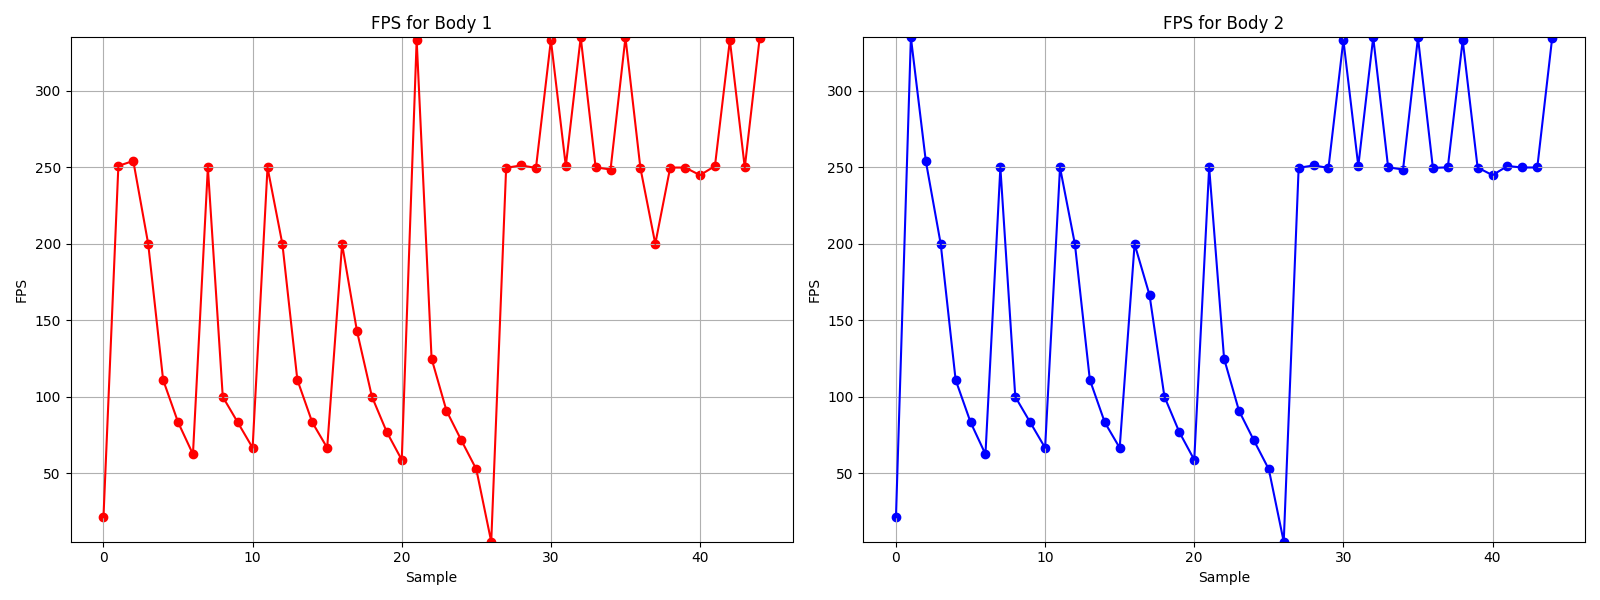
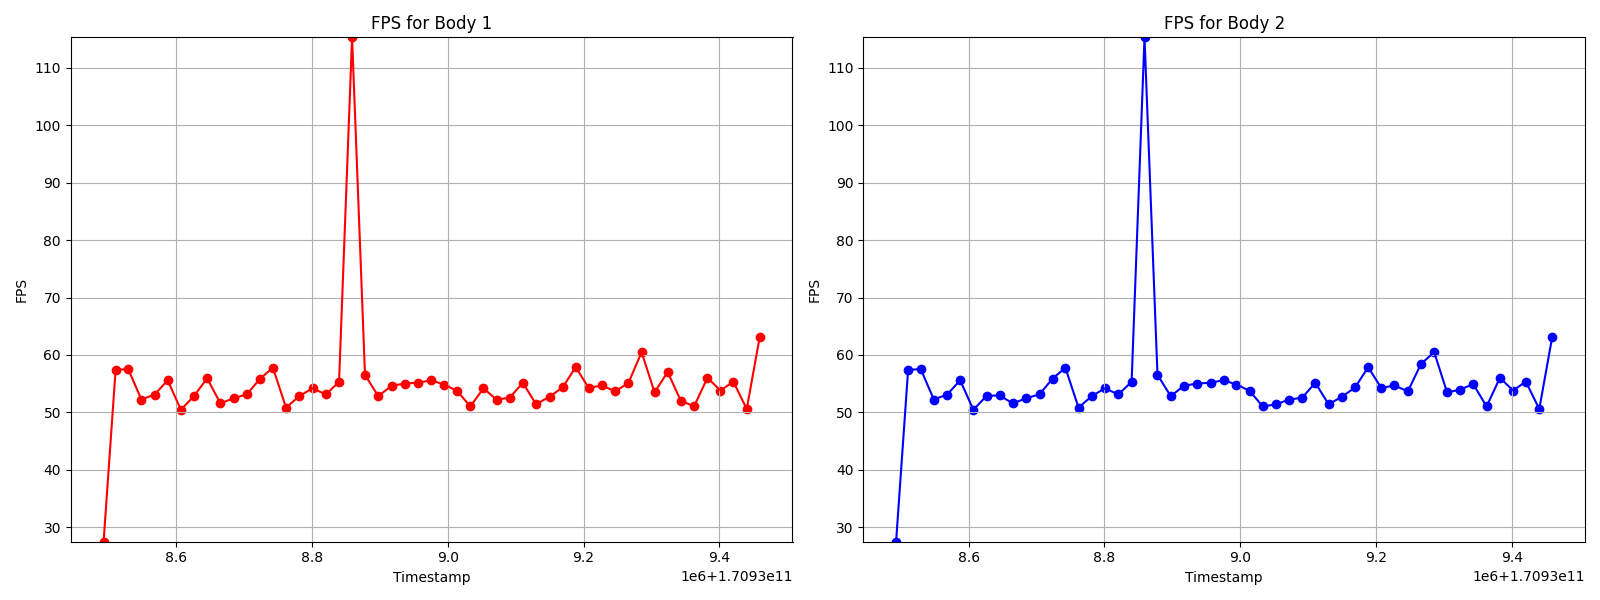
snapshotting some though process

diff --git a/acquire_images/body_cam.py b/acquire_images/body_cam.py
@@ -1,14 +1,28 @@
+from concurrent.futures import ThreadPoolExecutor
+import asyncio
 from rotpy.camera import CameraList
 import cv2
 import numpy as np
 import time
 import os
 import pickle
+import csv
 from rotpy.system import SpinSystem
 from rotpy.camera import CameraList
 
 system = SpinSystem()
 cameras = CameraList.create_from_system(system, update_cams=True, update_interfaces=True)
+
+# # Initialize ThreadPoolExecutor
+# executor = ThreadPoolExecutor()
+
+# async def save_to_disk_async(data, file_path):
+#     loop = asyncio.get_running_loop()
+#     await loop.run_in_executor(executor, pickle.dump, data, open(file_path, 'wb'))
+
+# async def save_csv_async(timestamp, fps, file_path):
+#     loop = asyncio.get_running_loop()
+#     await loop.run_in_executor(executor, csv.writer(open(file_path, 'a', newline='')).writerow, [timestamp, fps])
 
 def acquire_images_common(cam_index, date_folder, curr_trial, frame_rate, barrier, cam_folder, duration):
     print(f"Starting body camera {cam_index+1}")
@@ -19,16 +33,16 @@ def acquire_images_common(cam_index, date_folder, curr_trial, frame_rate, barrie
     # TODO ^ probably can be hardcoded
     print(resolution)
     resolution = (1200, 1920)
-    
+    resolution = (600, 960)
     
     camera.begin_acquisition()
-
     start_time = time.time()
-
-    # TODO need to remove all the samples parts
-    if os.path.isfile(f'samples_body_{cam_index+1}.txt'):
-        os.remove(f'samples_body_{cam_index+1}.txt')
     
+    # TODO need to remove all the samples parts
+    print(f'samples_body_{cam_index+1}.csv')
+    if os.path.isfile(f'samples_body_{cam_index+1}.csv'):
+        os.remove(f'samples_body_{cam_index+1}.csv')
+        
     while time.time() - start_time < duration:
         # barrier.wait()
         fps_start = time.time()
@@ -36,24 +50,28 @@ def acquire_images_common(cam_index, date_folder, curr_trial, frame_rate, barrie
         image = camera.get_next_image()
         raw_data = image.get_image_data()
 
-        try:
-            with open(f"{date_folder}/{cam_folder}/raw/{curr_trial}/frame_{image_count}_{cam_index+1}.pkl", "wb") as f:
-                pickle.dump(raw_data, f)
-        except Exception:
-            break # TODO need better handling here
+        # try:
+        #     # await save_to_disk_async(raw_data, f"{date_folder}/{cam_folder}/raw/{curr_trial}/frame_{image_count}_{cam_index+1}.pkl")
+        #     with open(f"{date_folder}/{cam_folder}/raw/{curr_trial}/frame_{image_count}_{cam_index+1}.pkl", "wb") as f:
+        #         pickle.dump(raw_data, f)
+        # except Exception:
+        #     break # TODO need better handling here
 
         image.release()
-
+        
         fps_end = time.time()
+        timestamp = int(time.perf_counter() * 1e6)
         fps = 1 / (fps_end - fps_start)
-        with open(f'samples_body_{cam_index+1}.txt', 'a') as f: # TODO check if this is adding to the delay?
-            f.write(f"{fps}\n")
 
-        if cv2.waitKey(1) & 0xFF == 27:
-            break
+        # await save_csv_async(timestamp, fps, f'samples_body_{cam_index+1}.csv')
 
+        with open(f'samples_body_{cam_index+1}.csv', 'a', newline='') as f: # TODO check if this is adding to the delay?
+            writer = csv.writer(f)
+            writer.writerow([timestamp, fps])
+        
+        # if cv2.waitKey(1) & 0xFF == 27:
+        #     break
+    
     camera.end_acquisition()
     camera.deinit_cam()
     camera.release()
-
-

diff --git a/acquire_images/main.py b/acquire_images/main.py
@@ -7,6 +7,27 @@ import argparse
 from common_utils import init_structure, get_folder_count, convert_pickle_to_png
 from body_cam import acquire_images_common
 from dart_cam import acquire_dart_images
+import asyncio
+import cProfile
+
+
+# def wrapper_acquire_images_common(*args, **kwargs):
+#     asyncio.run(acquire_images_common(*args, **kwargs))
+
+def wrapper_acquire_images_common(*args, **kwargs):
+    pr = cProfile.Profile()
+    pr.enable()
+    acquire_images_common(*args, **kwargs)
+    pr.disable()
+    pr.print_stats(sort='cumulative')
+
+def wrapper_acquire_dart_images(*args, **kwargs):
+    pr = cProfile.Profile()
+    pr.enable()
+    acquire_dart_images(*args, **kwargs)
+    pr.disable()
+    pr.print_stats(sort='cumulative')
+
 
 if __name__ == "__main__":
 
@@ -27,25 +48,25 @@ if __name__ == "__main__":
 
     barrier = multiprocessing.Barrier(3)
 
-    process1 = multiprocessing.Process(target=acquire_images_common, args=(0, date_folder, curr_trail, frame_rate_1, barrier, 'body_tracking/camera_1', duration))
-    process2 = multiprocessing.Process(target=acquire_images_common, args=(1, date_folder, curr_trail, frame_rate_1, barrier, 'body_tracking/camera_2', duration))
-    process3 = multiprocessing.Process(target=acquire_dart_images, args=(0, date_folder, curr_trail, 30, barrier, 'dart_tracking', duration))
+    process1 = multiprocessing.Process(target=wrapper_acquire_images_common, args=(0, date_folder, curr_trail, frame_rate_1, barrier, 'body_tracking/camera_1', duration))
+    process2 = multiprocessing.Process(target=wrapper_acquire_images_common, args=(1, date_folder, curr_trail, frame_rate_1, barrier, 'body_tracking/camera_2', duration))
+    # process3 = multiprocessing.Process(target=wrapper_acquire_dart_images, args=(0, date_folder, curr_trail, 30, barrier, 'dart_tracking', duration))
 
     process1.start()
     process2.start()
-    process3.start()
+    # process3.start()
 
     process1.join()
     process2.join()
-    process3.join()
+    # process3.join()
 
     resolution_body_cam = (1200, 1920)
     resolution_dart_cam = (3, 480, 640)
 
-    print("Converting pickle files to PNG images...")
-    convert_pickle_to_png(os.path.join(date_folder, 'body_tracking/camera_1/raw', str(curr_trail)), resolution_body_cam)
-    convert_pickle_to_png(os.path.join(date_folder, 'body_tracking/camera_2/raw', str(curr_trail)), resolution_body_cam)
-    # TODO convert_pickle_to_png(os.path.join(date_folder, 'dart_tracking/raw', str(curr_trail)), resolution_dart_cam)
+    # print("Converting pickle files to PNG images...")
+    # convert_pickle_to_png(os.path.join(date_folder, 'body_tracking/camera_1/raw', str(curr_trail)), resolution_body_cam)
+    # convert_pickle_to_png(os.path.join(date_folder, 'body_tracking/camera_2/raw', str(curr_trail)), resolution_body_cam)
+    # # TODO convert_pickle_to_png(os.path.join(date_folder, 'dart_tracking/raw', str(curr_trail)), resolution_dart_cam)
 
 
     cv2.destroyAllWindows()

diff --git a/acquire_images/plot_fps.py b/acquire_images/plot_fps.py
@@ -1,18 +1,33 @@
 import matplotlib.pyplot as plt
 import numpy as np
+import csv
 
 
-# read from test1.txt and convert to list of floats
-with open('samples_body_1.txt', 'r') as f:
-    body1_fps = f.readlines()
-    for i in range(len(body1_fps)):
-        body1_fps[i] = float(body1_fps[i])
+# Read samples_body_1.csv and convert to lists of floats
+with open('samples_body_1.csv', 'r') as f:
+    reader = csv.reader(f)
+    body1_data = list(reader)
+    body1_timestamps = [float(row[0]) for row in body1_data]
+    body1_fps = [float(row[1]) for row in body1_data]
+
+# Read samples_body_2.csv and convert to lists of floats
+with open('samples_body_2.csv', 'r') as f:
+    reader = csv.reader(f)
+    body2_data = list(reader)
+    body2_timestamps = [float(row[0]) for row in body2_data]
+    body2_fps = [float(row[1]) for row in body2_data]
+
+# # read from test1.txt and convert to list of floats
+# with open('samples_body_1.csv', 'r') as f:
+#     body1_fps = f.readlines()
+#     for i in range(len(body1_fps)):
+#         body1_fps[i] = float(body1_fps[i])
 
 
-with open('samples_body_2.txt', 'r') as f:
-    body2_fps = f.readlines()
-    for i in range(len(body2_fps)):
-        body2_fps[i] = float(body2_fps[i])
+# with open('samples_body_2.csv', 'r') as f:
+#     body2_fps = f.readlines()
+#     for i in range(len(body2_fps)):
+#         body2_fps[i] = float(body2_fps[i])
 
 # Create x-axis labels based on the number of samples
 x_labels_body1 = np.arange(len(body1_fps))
@@ -21,21 +36,25 @@ x_labels_body2 = np.arange(len(body2_fps))
 y_min = min(min(body1_fps), min(body2_fps))
 y_max = max(max(body1_fps), max(body2_fps))
 
-# Plotting the FPS for Body 1 and Body 2
+
+# Plotting
 plt.figure(figsize=(16, 6))
+
+# Plot for Body 1
 plt.subplot(1, 2, 1)
-plt.plot(x_labels_body1, body1_fps, 'r-', label='Body 1 FPS')
-plt.scatter(x_labels_body1, body1_fps, color='r', marker='o') 
-plt.xlabel('Sample')
+plt.plot(body1_timestamps, body1_fps, 'r-', label='Body 1 FPS')
+plt.scatter(body1_timestamps, body1_fps, color='r', marker='o')
+plt.xlabel('Timestamp')
 plt.ylabel('FPS')
 plt.title('FPS for Body 1')
 plt.ylim(y_min, y_max)
 plt.grid(True)
 
+# Plot for Body 2
 plt.subplot(1, 2, 2)
-plt.plot(x_labels_body2, body2_fps[:len(body1_fps)], 'b-', label='Body 2 FPS') 
-plt.scatter(x_labels_body2, body2_fps[:len(body1_fps)], color='b', marker='o') 
-plt.xlabel('Sample')
+plt.plot(body2_timestamps, body2_fps, 'b-', label='Body 2 FPS')
+plt.scatter(body2_timestamps, body2_fps, color='b', marker='o')
+plt.xlabel('Timestamp')
 plt.ylabel('FPS')
 plt.title('FPS for Body 2')
 plt.ylim(y_min, y_max)
